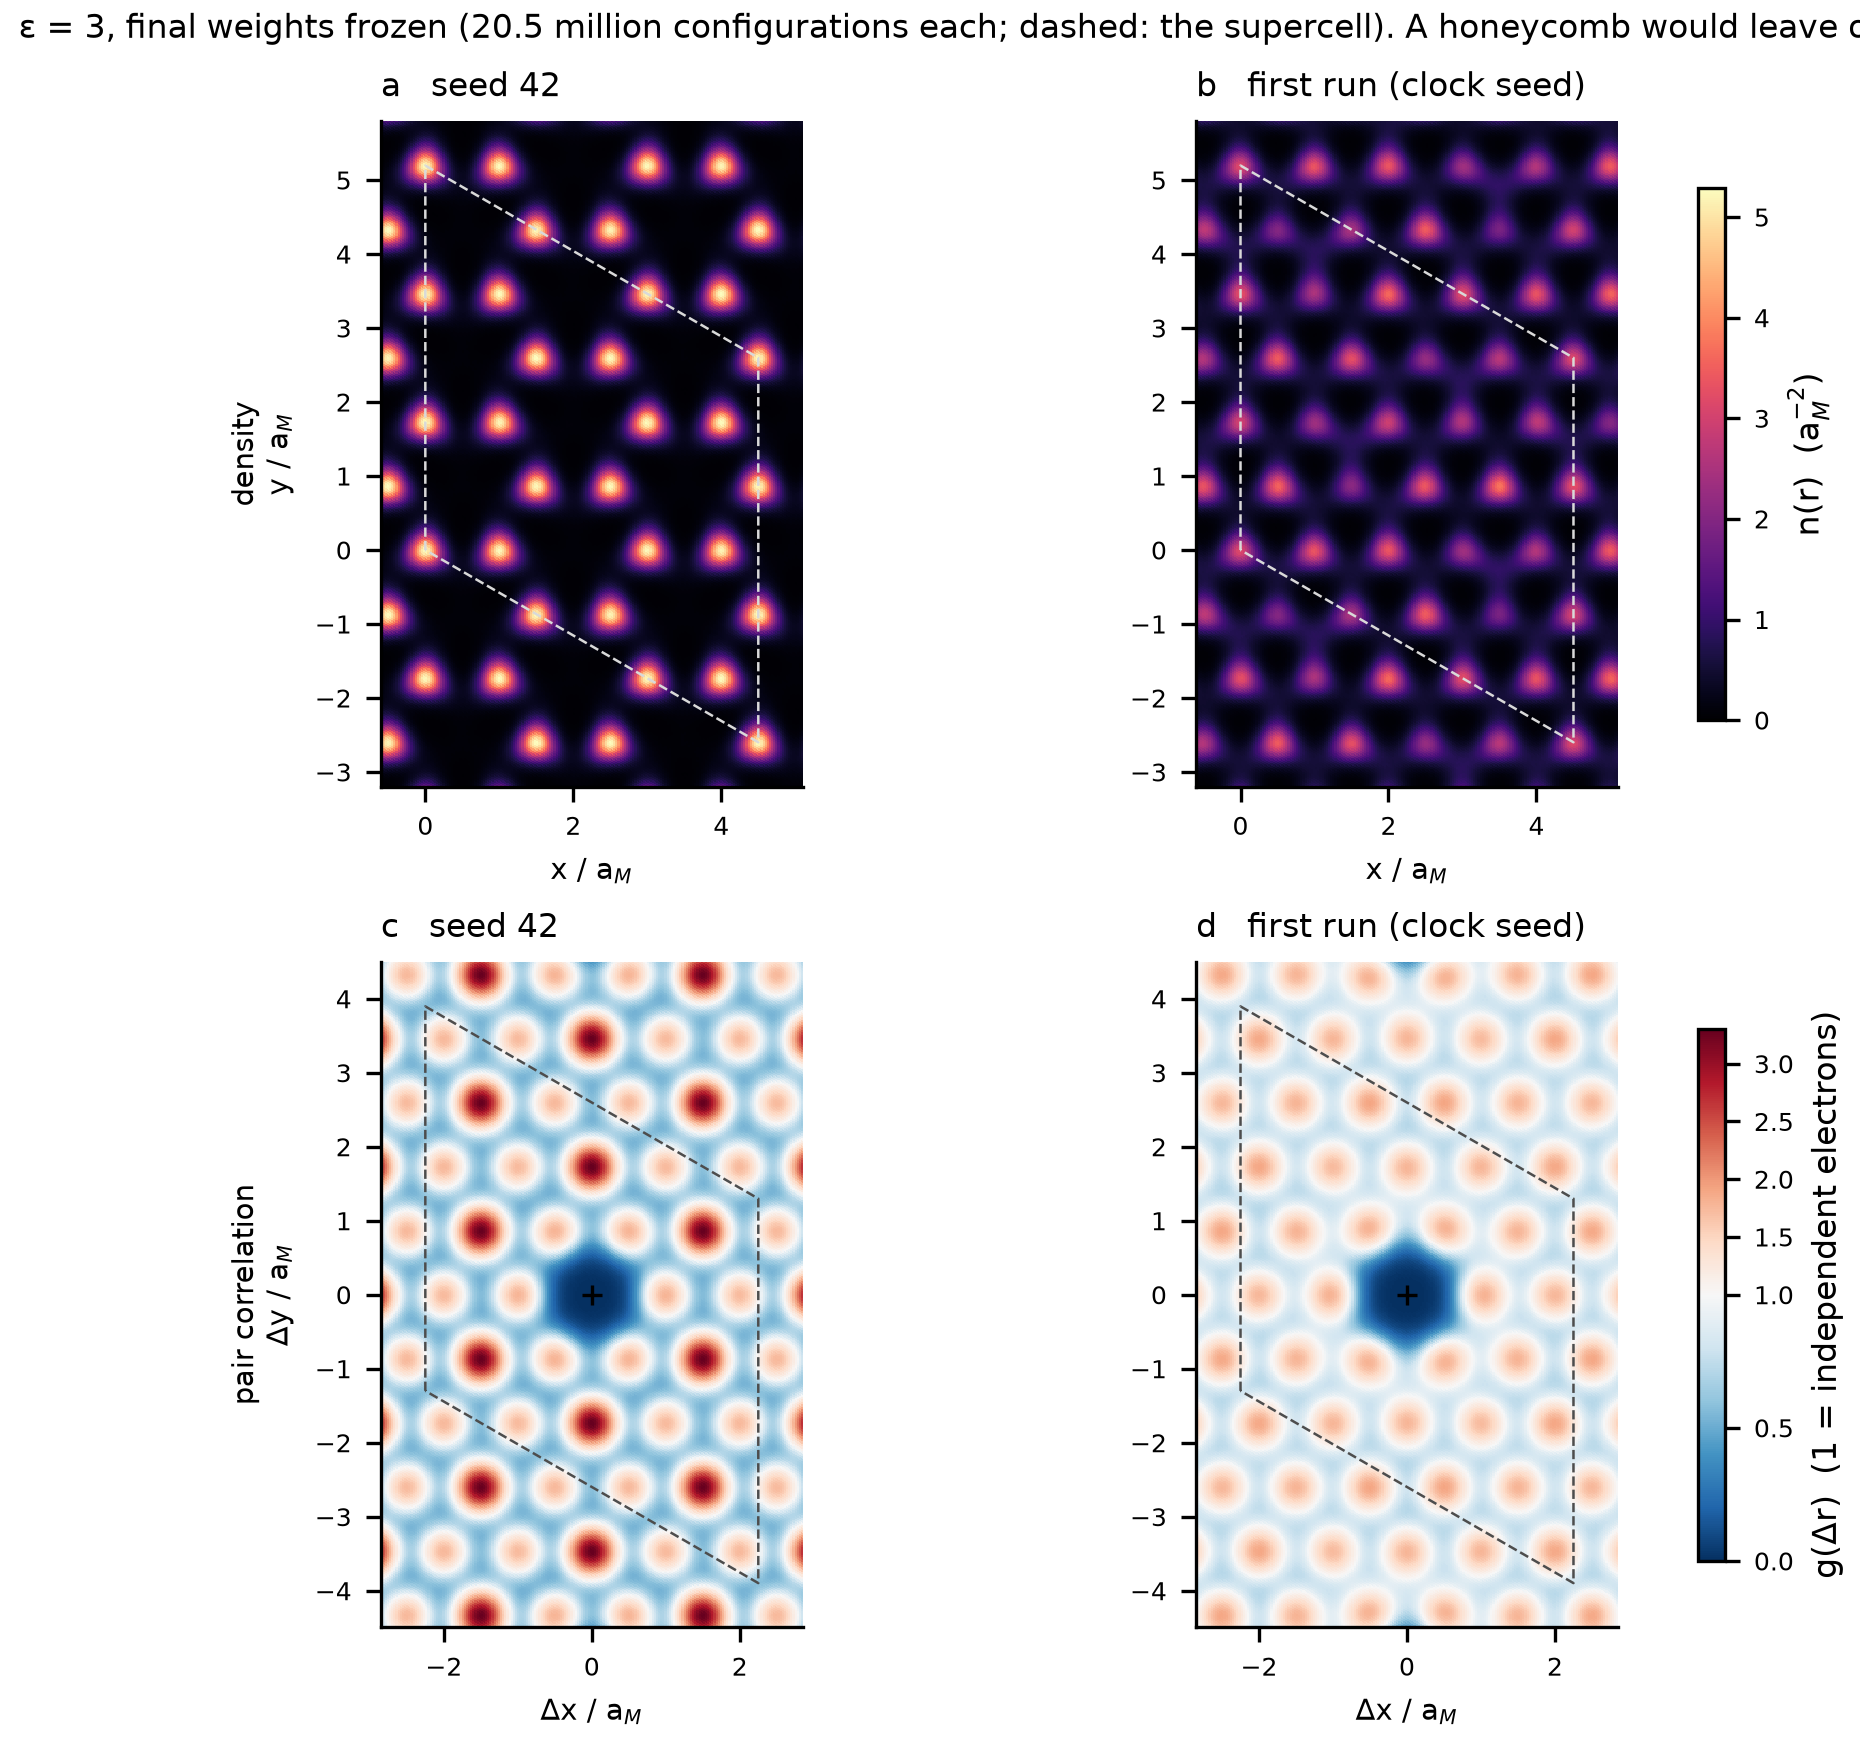
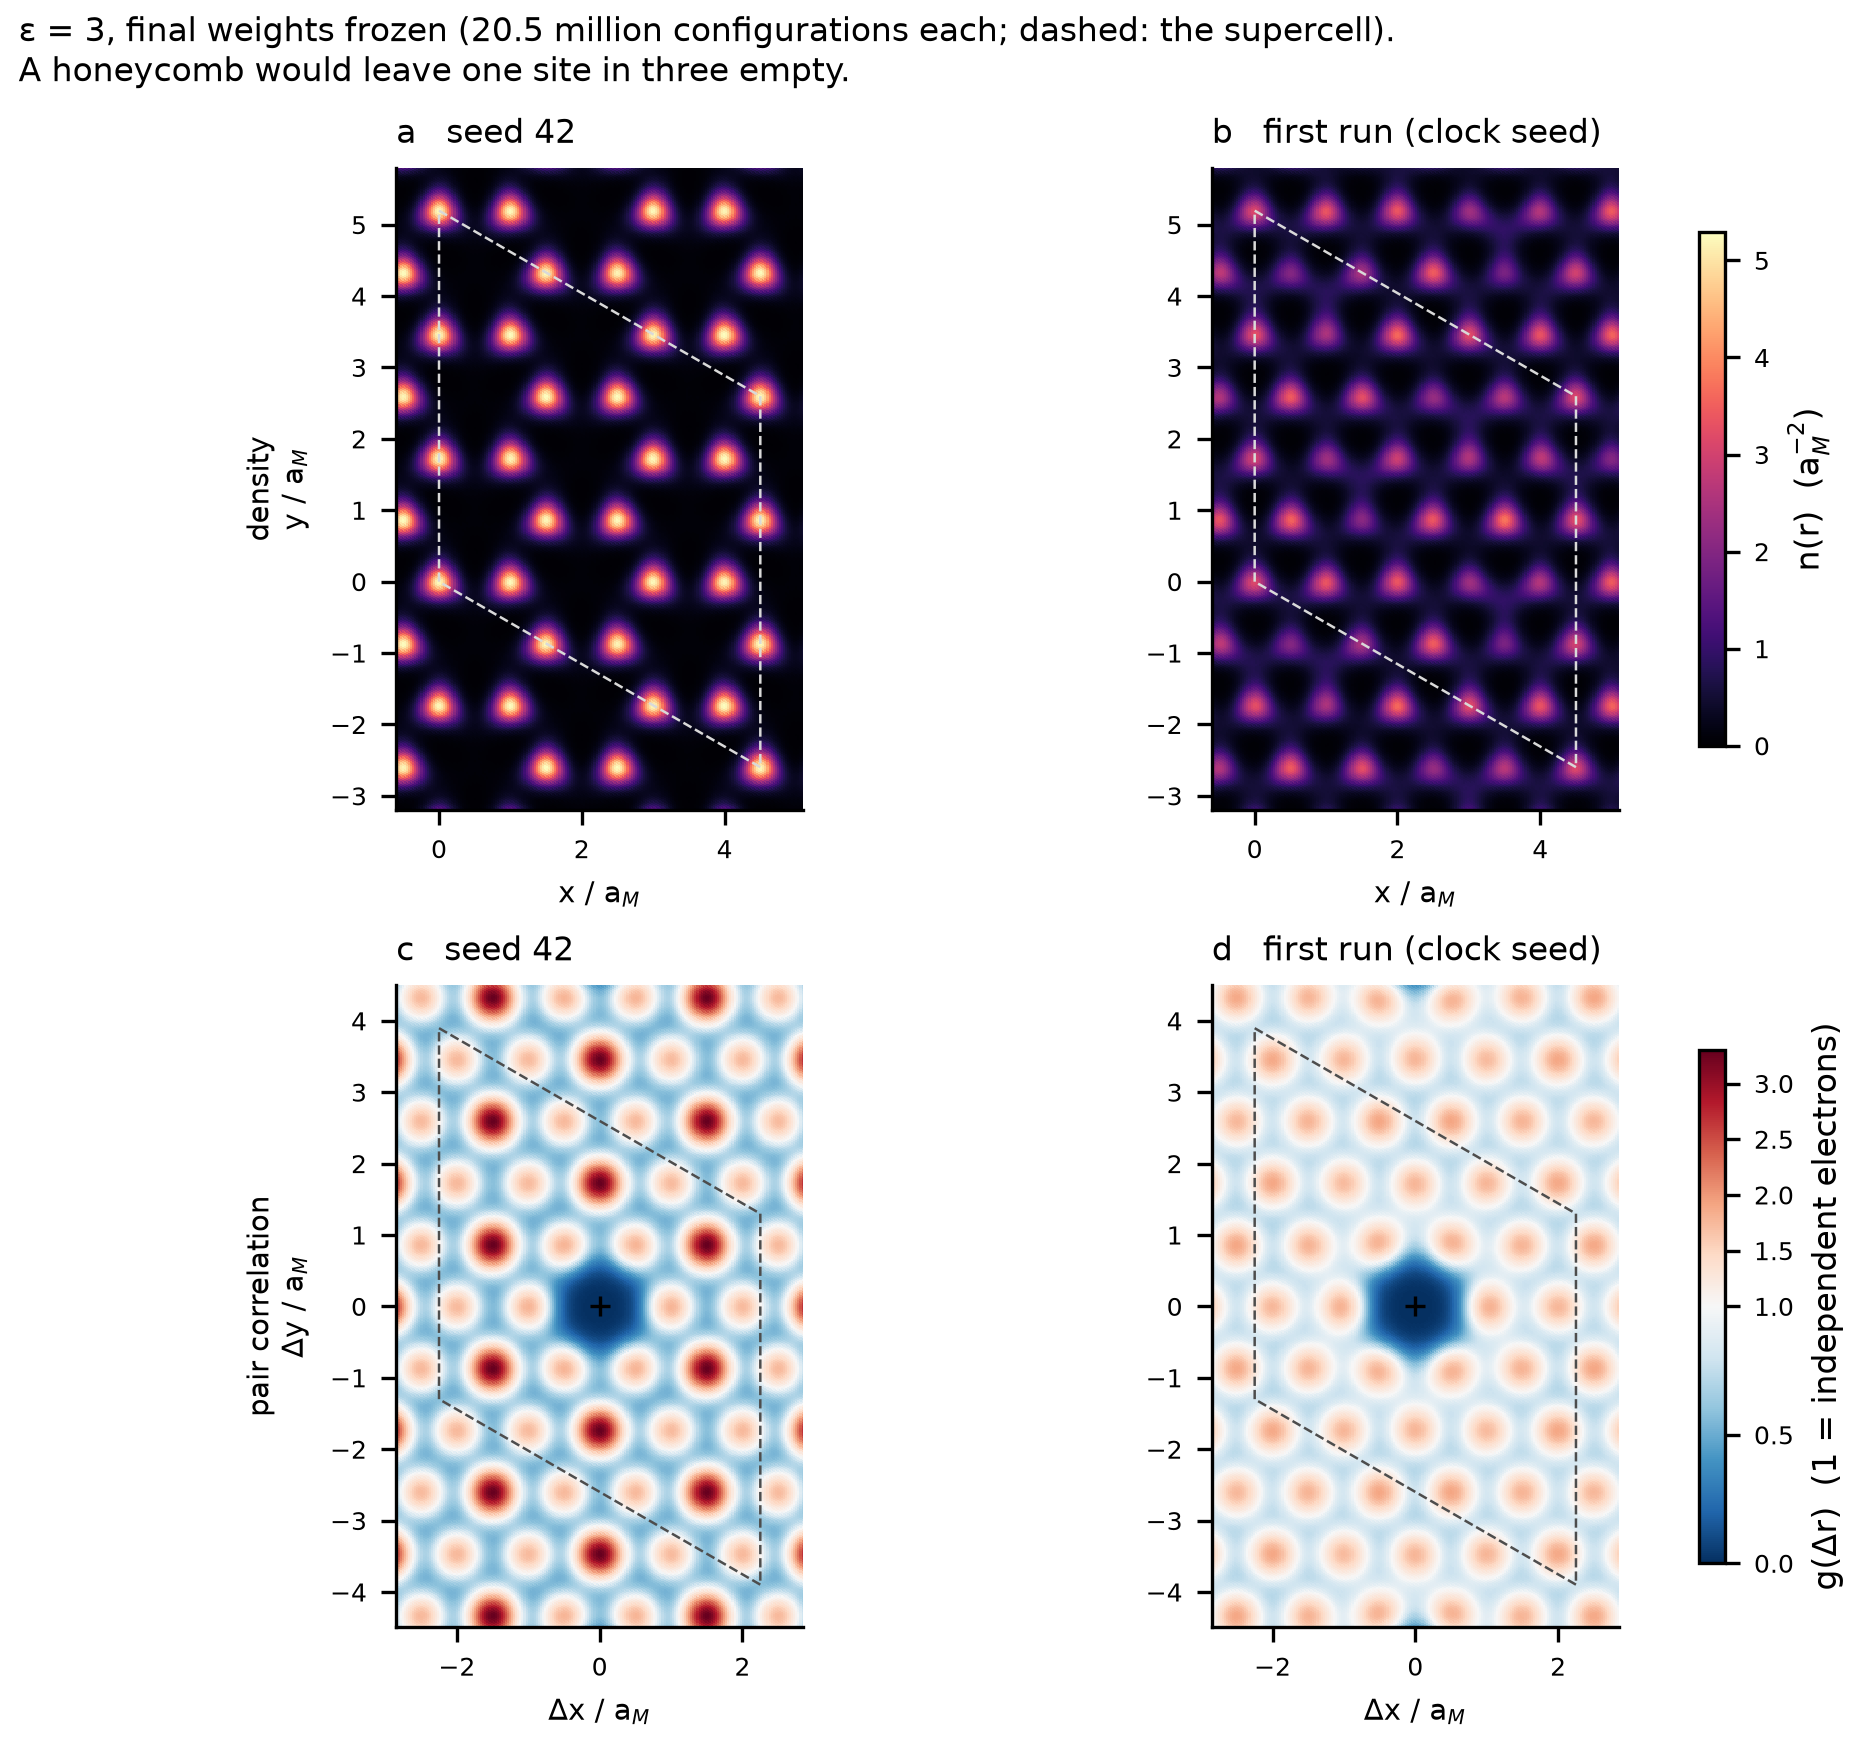
Seed-42 figure: two-line title for the two-column figure (eps3_evaluation_results.density_pair_figure takes an optional title; default unchanged); CSVs unchanged (md5)

diff --git a/authors_exact_code_runs/code/eps3_evaluation_results.py b/authors_exact_code_runs/code/eps3_evaluation_results.py
@@ -60,7 +60,11 @@ def load_ours():
     return dict(run, folder="our_code_attention")
 
 
-def density_pair_figure(runs, path):
+TITLE = ("\u03b5 = 3, final weights frozen (20.5 million configurations each; dashed: the supercell). "
+         "A honeycomb would leave one site in three empty.")
+
+
+def density_pair_figure(runs, path, title=TITLE):
     """Density (top) and pair correlation (bottom), one column per run, as for all our runs."""
     fig, axes = plt.subplots(2, len(runs), figsize=(2.6 * len(runs) + 1.0, 5.8), constrained_layout=True)
     densities = [t1.observables.density_map(r["totals"]["density"], r["n_configurations"], r["supercell"]) for r in runs]
@@ -90,8 +94,7 @@ def density_pair_figure(runs, path):
             if column == len(runs) - 1:
                 fig.colorbar(image, ax=axes[row, :], shrink=0.8,
                              label="n(r)  (a$_M^{-2}$)" if row == 0 else "g(\u0394r)  (1 = independent electrons)")
-    fig.suptitle("\u03b5 = 3, final weights frozen (20.5 million configurations each; dashed: the supercell). "
-                 "A honeycomb would leave one site in three empty.", x=0.01, ha="left", fontsize=8)
+    fig.suptitle(title, x=0.01, ha="left", fontsize=8)
     fig.savefig(path, dpi=300)
     plt.close(fig)
 

diff --git a/authors_exact_code_runs/code/seed42_evaluation_results.py b/authors_exact_code_runs/code/seed42_evaluation_results.py
@@ -78,7 +78,8 @@ def main():
     structure.to_csv(SEED42 / "results" / "frozen_structure.csv", index=False)
     pattern.to_csv(SEED42 / "results" / "frozen_site_pattern.csv", index=False)
     trajectory.to_csv(SEED42 / "results" / "checkpoint_structure.csv", index=False)
-    ev3.density_pair_figure(runs, SEED42 / "figures" / "frozen_density_pair_correlation.png")
+    ev3.density_pair_figure(runs, SEED42 / "figures" / "frozen_density_pair_correlation.png",
+                            title=ev3.TITLE.replace("supercell). ", "supercell).\n"))   # two columns: two lines
 
     with pd.option_context("display.width", 250, "display.max_columns", 40):
         print(energies[["run", "E_frozen", "E_frozen_error", "E_training_last20pct", "E_training_last20pct_error",
